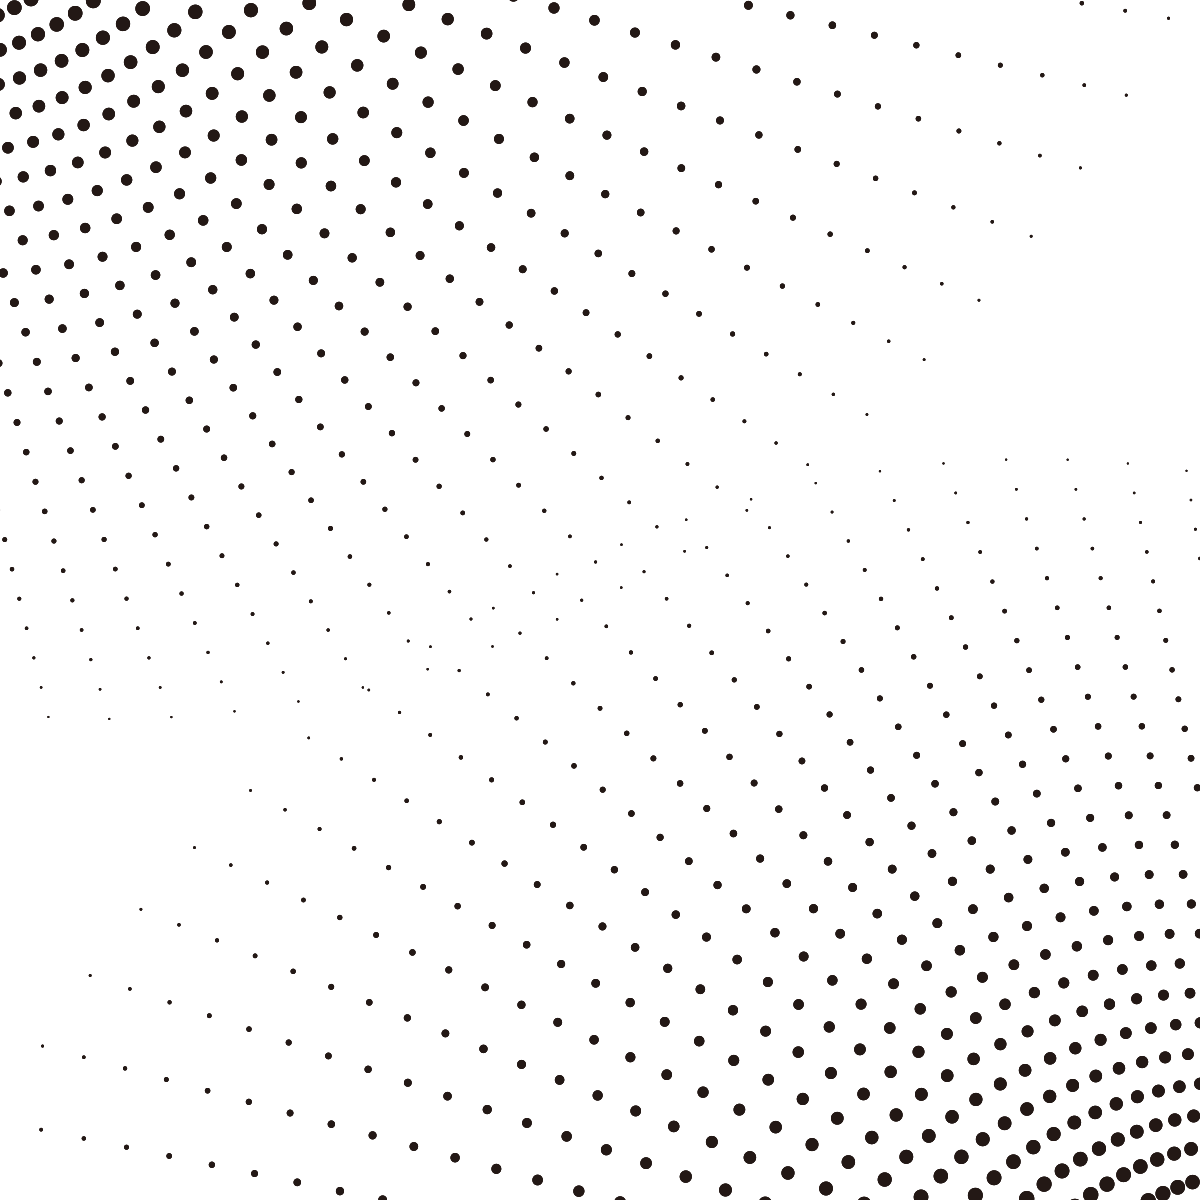
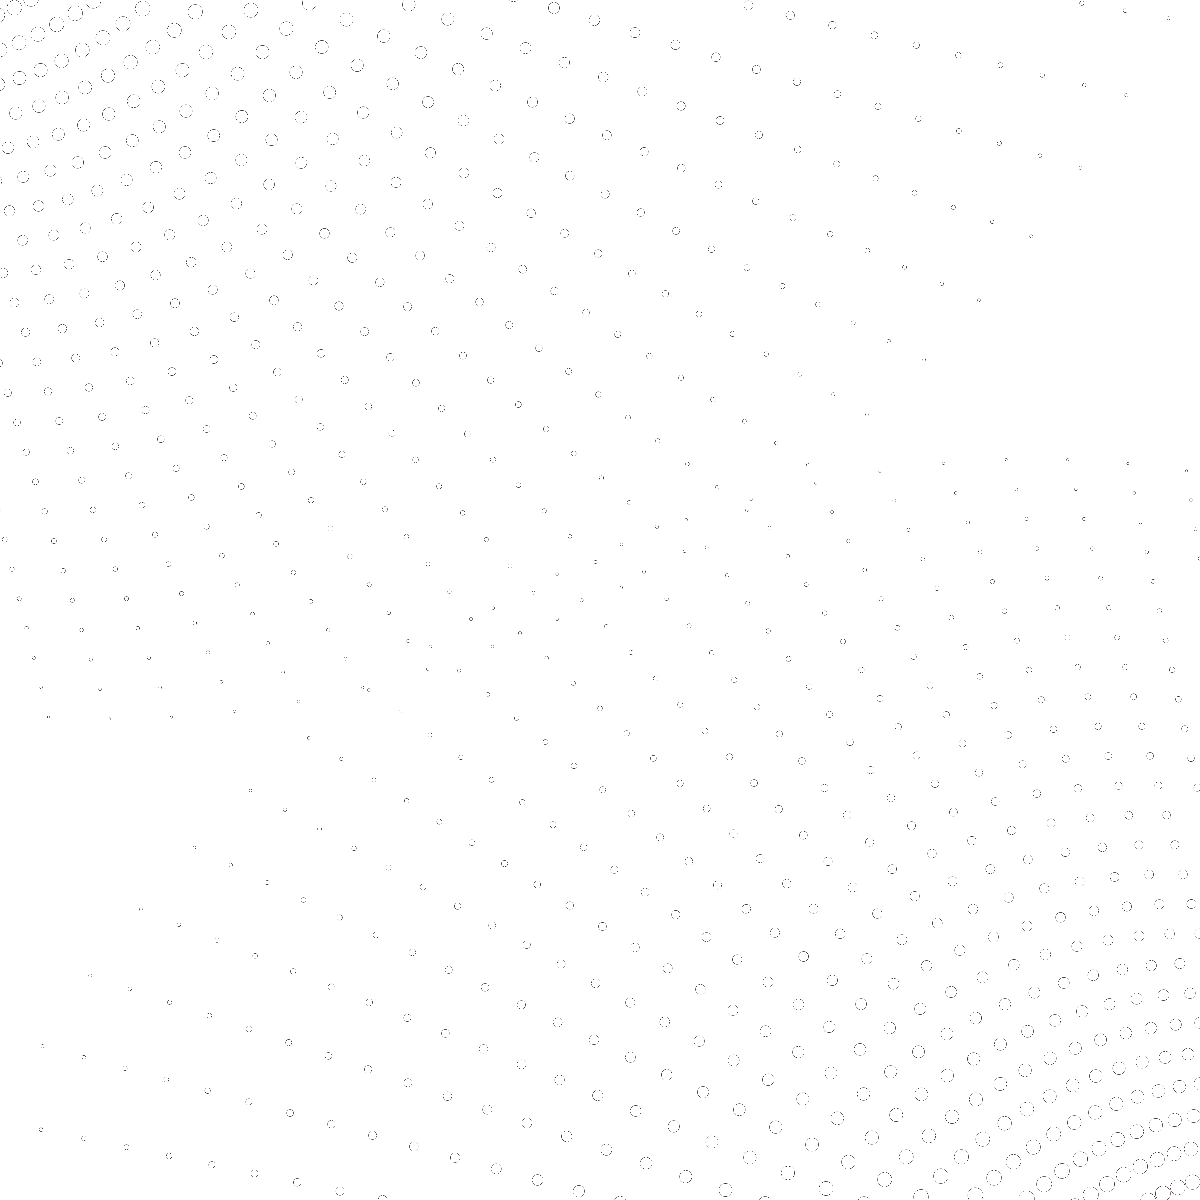
DONE: first version cognito signin, signup & password recover

diff --git a/packages/frontend/src/views/public/confirma/ConfirmaForm.tsx b/packages/frontend/src/views/public/confirma/ConfirmaForm.tsx
@@ -1,14 +1,7 @@
 import React, { FC, useContext, useState } from 'react';
 import LoadingButton from '@mui/lab/LoadingButton';
-import Button from '@mui/material/Button';
 import FormControl from '@mui/material/FormControl';
-import Alert from "@mui/material/Alert";
-import Checkbox from "@mui/material/Checkbox";
-import FormControlLabel from "@mui/material/FormControlLabel";
-import FormGroup from "@mui/material/FormGroup";
-import Grid from "@mui/material/Grid";
 import InputLabel from "@mui/material/InputLabel";
-import Link from "@mui/material/Link";
 import OutlinedInput from "@mui/material/OutlinedInput";
 import Stack from "@mui/material/Stack";
 import Box from '@mui/material/Box';
@@ -16,42 +9,31 @@ import Typography from "@mui/material/Typography";
 import Container from '@mui/material/Container';
 import { Auth } from 'aws-amplify';
 import { useFormik } from "formik";
-import { useHistory } from 'react-router-dom';
-import { FormikRegistro, validationRegistro } from "./confirma.formik";
-import { publicRoutes } from "../../../navigation";
+import { FormikConfirma, validationConfirma } from "./confirma.formik";
 import { PublicContext } from "../../../layout";
+import { useHistory } from "react-router-dom";
+import { publicRoutes } from "../../../navigation";
 
 const ConfirmaForm: FC = () => {
   const history = useHistory();
-  const { setUsername } = useContext(PublicContext);
-  const [signingUp, setSigningUp] = useState<boolean>(false);
-  const formik = useFormik<FormikRegistro>({
+  const { state } = useContext(PublicContext);
+  const [confirming, setConfirming] = useState<boolean>(false);
+  const formik = useFormik<FormikConfirma>({
     initialValues: {
-      name: '',
-      lastName: '',
-      username: '',
-      password: '',
-      confirmPassword: '',
-      serviceTerms: false,
-      privacyPolicy: false,
+      username: state.username || '',
+      code: ''
     },
-    validationSchema: validationRegistro,
+    validationSchema: validationConfirma,
     validateOnMount: true,
-    onSubmit: ({ name, lastName, username, password }) => {
-      setSigningUp(true);
-      Auth.signUp({
-        username,
-        password,
-        attributes: {
-          givenName: name,
-          familyName: lastName
-        }
-      })
+    onSubmit: ({ username, code }) => {
+      setConfirming(true);
+      Auth.confirmSignUp(username, code)
         .then(user => {
+          history.push(publicRoutes.ingreso.route())
           console.log('user', user);
-          setUsername(username);
         })
-        .finally(() => setSigningUp(false))
+        .catch(error => console.error(error))
+        .finally(() => setConfirming(false))
     }
   });
   
@@ -59,7 +41,7 @@ const ConfirmaForm: FC = () => {
     handleChange,
     handleBlur,
     handleSubmit,
-    values: { name, lastName, username, password, confirmPassword }
+    values: { username, code }
   } = formik;
   
   return (
@@ -67,85 +49,41 @@ const ConfirmaForm: FC = () => {
       <Container maxWidth="sm">
         <form onSubmit={handleSubmit}>
           <Box sx={{ p: 2 }}>
-            <Typography variant="h4" component="h1">Regístrate en DEFOL</Typography>
-            <Typography variant="subtitle1" color="primary" gutterBottom>Y resuelve tus dudas con nuestro equipo de
-              especialistas</Typography>
-            <Alert severity="warning"
-                   action={
-                     <Button size="small" color="inherit" onClick={() => history.push(publicRoutes.ingreso.route())}>
-                       Ingresa
-                     </Button>
-                   }>
-              ¿Recordaste que ya tienes una cuenta?
-            </Alert>
-            <Grid container spacing={2}>
-              <Grid item sm={6}>
-                <FormControl sx={{ my: 1 }} variant="filled" fullWidth>
-                  <InputLabel htmlFor="name">Nombres</InputLabel>
-                  <OutlinedInput
-                    id="name"
-                    type="text"
-                    value={name}
-                    onChange={handleChange}
-                    onBlur={handleBlur}/>
-                </FormControl>
-              </Grid>
-              <Grid item sm={6}>
-                <FormControl sx={{ my: 1 }} variant="filled" fullWidth>
-                  <InputLabel htmlFor="lastName">Apellidos</InputLabel>
-                  <OutlinedInput
-                    id="lastName"
-                    type="text"
-                    value={lastName}
-                    onChange={handleChange}
-                    onBlur={handleBlur}/>
-                </FormControl>
-              </Grid>
-            </Grid>
+            <Typography variant="h4" component="h1">Confirma tu Registro</Typography>
+            <Typography variant="subtitle1" color="primary" gutterBottom>
+              Estás a un paso para comenzar a operar con DEFOL.
+            </Typography>
+            <Typography variant="body1">
+              Te hemos enviado un correo con un código, si no lo encuentras espera unos segundos.
+            </Typography>
+            <Typography variant="body1" gutterBottom>
+              No olvides revisar en la bandeja de correos no deseados, a veces los filtros se confunden.
+            </Typography>
             <FormControl sx={{ my: 1 }} variant="filled" fullWidth>
               <InputLabel htmlFor="username">Correo electrónico</InputLabel>
               <OutlinedInput
                 id="username"
                 type="text"
+                disabled={state.username !== undefined}
                 value={username}
                 onChange={handleChange}
                 onBlur={handleBlur}/>
             </FormControl>
             <FormControl sx={{ my: 1 }} variant="filled" fullWidth>
-              <InputLabel htmlFor="password">Contraseña</InputLabel>
+              <InputLabel htmlFor="code">Código de validación</InputLabel>
               <OutlinedInput
-                id="password"
-                type="password"
-                autoComplete="new-password"
-                value={password}
+                id="code"
+                type="text"
+                value={code}
                 onChange={handleChange}
                 onBlur={handleBlur}/>
             </FormControl>
-            <FormControl sx={{ my: 1 }} variant="filled" fullWidth>
-              <InputLabel htmlFor="confirmPassword">Confirmar Contraseña</InputLabel>
-              <OutlinedInput
-                id="confirmPassword"
-                type="password"
-                autoComplete="new-password"
-                value={confirmPassword}
-                onChange={handleChange}
-                onBlur={handleBlur}/>
-            </FormControl>
-            <FormGroup>
-              <FormControlLabel control={<Checkbox id="serviceTerms" onChange={handleChange}/>} label={
-                <>Acepto los <Link href="#" color="secondary">términos de servicio</Link> de DEFOL</>
-              }/>
-              <FormControlLabel control={<Checkbox id="privacyPolicy" onChange={handleChange}/>} label={
-                <>Acepto la <Link href="#" color="secondary">política de privacidad</Link> respecto al uso de mi
-                  información</>
-              }/>
-            </FormGroup>
             <LoadingButton
               sx={{ mt: 3 }}
               size="large" type="submit" variant="contained" fullWidth
               disabled={!formik.isValid}
-              loading={signingUp}>
-              Registrar
+              loading={confirming}>
+              Confirmar registro
             </LoadingButton>
           </Box>
         </form>

diff --git a/packages/frontend/src/views/public/ingreso/IngresoForm.tsx b/packages/frontend/src/views/public/ingreso/IngresoForm.tsx
@@ -1,15 +1,11 @@
-import React, { FC, useState } from 'react';
+import React, { FC, useContext, useState } from 'react';
 import LoadingButton from '@mui/lab/LoadingButton';
 import Button from '@mui/material/Button';
 import InputAdornment from '@mui/material/InputAdornment';
 import FormControl from '@mui/material/FormControl';
 import Alert from "@mui/material/Alert";
-import Checkbox from "@mui/material/Checkbox";
-import FormControlLabel from "@mui/material/FormControlLabel";
-import FormGroup from "@mui/material/FormGroup";
 import Grid from "@mui/material/Grid";
 import InputLabel from "@mui/material/InputLabel";
-import Link from "@mui/material/Link";
 import OutlinedInput from "@mui/material/OutlinedInput";
 import Stack from "@mui/material/Stack";
 import IconButton from "@mui/material/IconButton";
@@ -18,17 +14,19 @@ import { Auth } from 'aws-amplify';
 import { useFormik } from "formik";
 import { Link as RouterLink, useHistory } from 'react-router-dom';
 import { FormikIngreso, validationIngreso } from "./ingreso.formik";
-import { publicRoutes } from "../../../navigation";
+import { privateRoutes, publicRoutes } from "../../../navigation";
 import Box from '@mui/material/Box';
 import Typography from "@mui/material/Typography";
 import Container from '@mui/material/Container';
+import { PublicContext } from "../../../layout";
 
 const IngresoForm: FC = () => {
   const history = useHistory();
+  const { state } = useContext(PublicContext);
   const [signingIn, setSigningIn] = useState<boolean>(false);
   const formik = useFormik<FormikIngreso>({
     initialValues: {
-      username: '',
+      username: state.username || '',
       password: '',
       showPassword: false
     },
@@ -41,7 +39,7 @@ const IngresoForm: FC = () => {
           if (user.challengeName === 'NEW_PASSWORD_REQUIRED') {
             //TODO vista de nueva contraseña requerida
           } else {
-            //TODO autenticar
+            history.push(privateRoutes.inicio.route());
           }
         })
         .finally(() => setSigningIn(false))

diff --git a/packages/frontend/src/views/public/confirma/confirma.formik.ts b/packages/frontend/src/views/public/confirma/confirma.formik.ts
@@ -1,33 +1,15 @@
 import * as yup from 'yup';
 
-export interface FormikRegistro {
-  name: string
-  lastName: string
+export interface FormikConfirma {
   username: string
-  password: string
-  confirmPassword: string
-  serviceTerms: boolean
-  privacyPolicy: boolean
+  code: string
 }
 
-export const validationRegistro = yup.object({
-  name: yup.string()
-    .min(3)
-    .required(),
-  lastName: yup.string()
-    .min(3)
-    .required(),
+export const validationConfirma = yup.object({
   username: yup.string()
     .email()
     .required(),
-  password: yup.string()
-    .min(6, 'Debe tener como mínimo 6 caracteres')
+  code: yup.string()
+    .min(4, 'Debe tener como mínimo 4 caracteres')
     .required(),
-  confirmPassword: yup.string()
-    .min(6, 'Debe tener como mínimo 6 caracteres')
-    .required(),
-  serviceTerms: yup.bool()
-    .oneOf([true], 'Los términos del servicio deben ser aceptados'),
-  privacyPolicy: yup.bool()
-    .oneOf([true], 'La política de privacidad debe ser aceptada')
 });

diff --git a/packages/frontend/src/navigation/routes/public.hierarchy.ts b/packages/frontend/src/navigation/routes/public.hierarchy.ts
@@ -5,8 +5,8 @@ import PublicGuard from "../../guards/public.guard";
 import { PublicLayout } from "../../layout";
 import PublicLoading from "../../views/public/Public.loading";
 
-export const publicPath = '/autenticacion';
-export const publicRoutes = getPublicRoutes(publicPath);
+const publicPath = '/autenticacion';
+const publicRoutes = getPublicRoutes(publicPath);
 
 const getPublicHierarchy = (path: string): NavigationInterface => {
   return {
@@ -37,4 +37,6 @@ const getPublicHierarchy = (path: string): NavigationInterface => {
   };
 };
 
-export const publicHierarchy = getPublicHierarchy(publicPath);
+const publicHierarchy = getPublicHierarchy(publicPath);
+
+export { publicPath, publicRoutes, publicHierarchy };

diff --git a/packages/frontend/src/navigation/routes/private.hierarchy.ts b/packages/frontend/src/navigation/routes/private.hierarchy.ts
@@ -5,6 +5,9 @@ import PrivateGuard from "../../guards/private.guard";
 import { PrivateLayout } from "../../layout";
 import PrivateLoading from "../../views/private/Private.loading";
 
+const privatePath = '';
+const privateRoutes = getPrivateRoutes(privatePath);
+
 const getPrivateHierarchy = (path: string): NavigationInterface => {
   const privateRoutes = getPrivateRoutes(path);
   return {
@@ -23,4 +26,6 @@ const getPrivateHierarchy = (path: string): NavigationInterface => {
   };
 };
 
-export const privateHierarchy = getPrivateHierarchy('');
+const privateHierarchy = getPrivateHierarchy(privatePath);
+
+export { privatePath, privateRoutes, privateHierarchy };

diff --git a/packages/frontend/src/guards/private.guard.tsx b/packages/frontend/src/guards/private.guard.tsx
@@ -1,7 +1,17 @@
 import React from 'react';
+import { useHistory } from "react-router-dom";
+import { Auth } from "aws-amplify";
+import { publicRoutes } from '../navigation';
 
-const PublicGuard: React.FC = ({ children }) => {
+const PrivateGuard: React.FC = ({ children }) => {
+  const history = useHistory();
+  
+  Auth.currentAuthenticatedUser()
+    .catch(() => {
+      history.replace(publicRoutes.ingreso.route());
+    })
+  
   return <>{children}</>;
 };
 
-export default PublicGuard;
+export default PrivateGuard;

diff --git a/packages/frontend/src/layout/public.layout.tsx b/packages/frontend/src/layout/public.layout.tsx
@@ -4,10 +4,11 @@ import { PublicContext, PublicContextProps, PublicContextState } from "./public.
 const PublicLayout: React.FC = ({ children }) => {
   const [contextState, setContextState] = useState<PublicContextState>({ });
   const setUsername = (username: string) => setContextState({ username });
+  const clear = () => setContextState({ });
   
   const context: PublicContextProps = {
     state: contextState,
-    setUsername
+    setUsername, clear
   };
   
   return (

diff --git a/packages/frontend/src/layout/public.context.ts b/packages/frontend/src/layout/public.context.ts
@@ -7,10 +7,13 @@ export interface PublicContextState {
 export interface PublicContextProps {
   state: PublicContextState
   setUsername: (username: string) => void
+  clear: () => void
 }
 
 export const PublicContext = createContext<PublicContextProps>({
   state: {},
   setUsername: () => {
+  },
+  clear: () => {
   }
 })

diff --git a/packages/frontend/src/views/public/registro/RegistroForm.tsx b/packages/frontend/src/views/public/registro/RegistroForm.tsx
@@ -43,8 +43,8 @@ const RegistroForm: FC = () => {
         username,
         password,
         attributes: {
-          givenName: name,
-          familyName: lastName
+          given_name: name,
+          family_name: lastName
         }
       })
         .then(user => {

diff --git a/packages/frontend/src/layout/private.layout.tsx b/packages/frontend/src/layout/private.layout.tsx
@@ -1,6 +1,6 @@
 import React from 'react';
-import Topbar from "./private/Topbar";
 import Container from "@mui/material/Container";
+import Topbar from "./private/Topbar";
 
 const PrivateLayout: React.FC = ({ children }) => {
   return (

diff --git a/packages/frontend/src/styles/public.scss b/packages/frontend/src/styles/public.scss
@@ -7,7 +7,7 @@
 }
 
 .public-text {
-  background: url('../assets/img/divergent_dots_2.png');
+  background: url('../assets/img/divergent_dots.png');
   background-repeat: no-repeat;
   background-size: cover;
   background-color: #6a0080;
